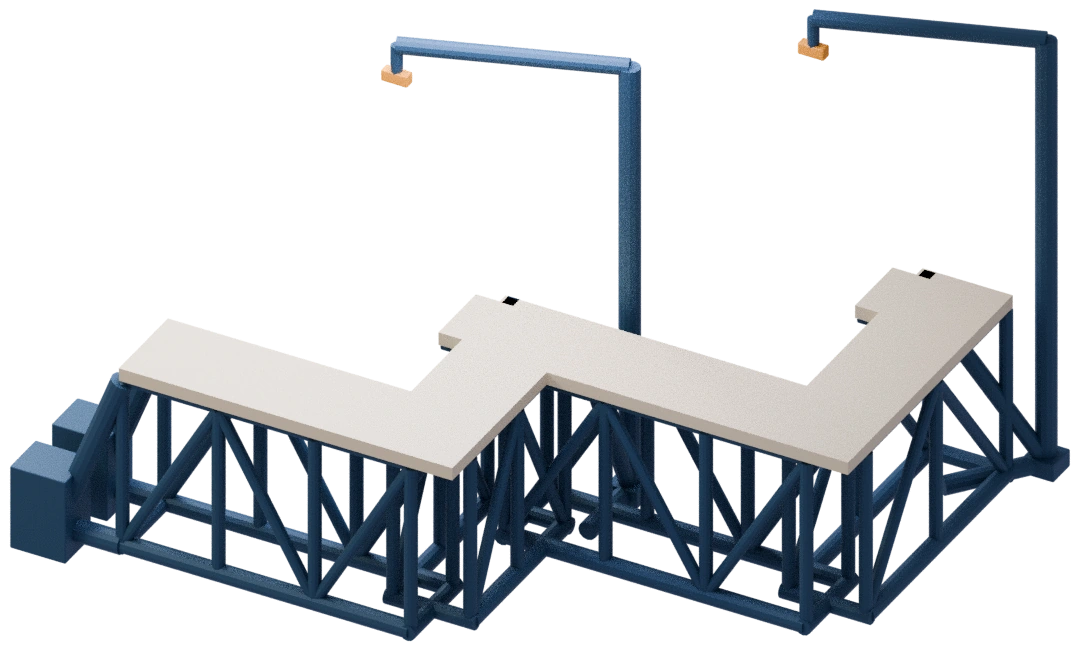
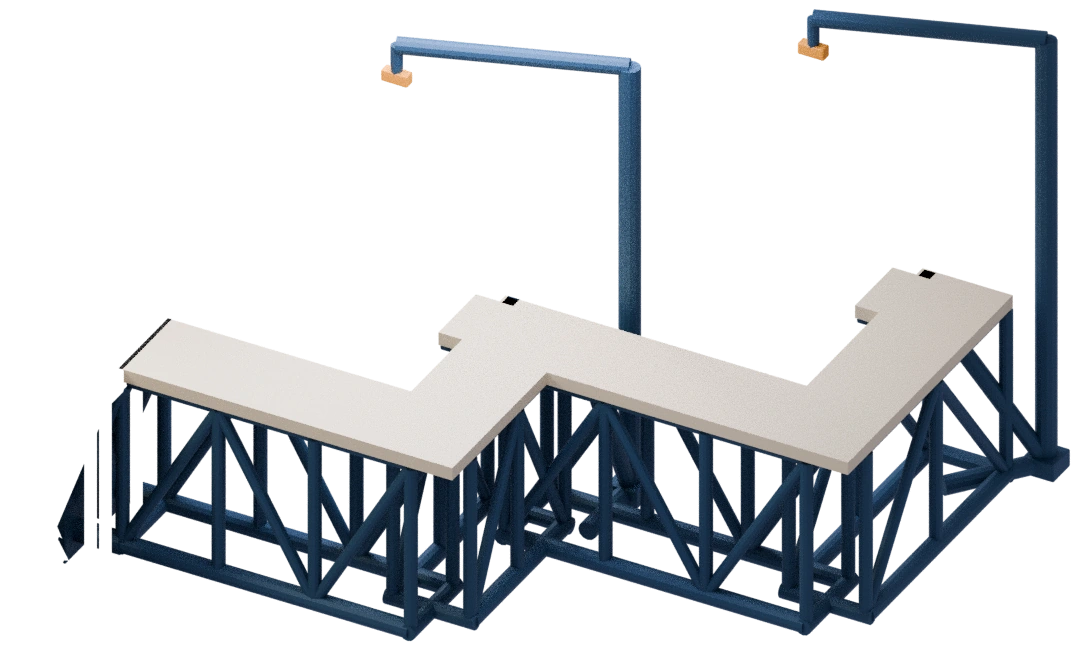
Occlude cableway foundations with the authored island depth

Changed region(s): [[0.0, 0.5538, 0.3361, 0.8923], [0.1222, 0.4923, 0.1528, 0.5538], [0.2444, 0.8923, 0.275, 0.9231]]

diff --git a/tools/diorama/render_serra_reserva_overlays.py b/tools/diorama/render_serra_reserva_overlays.py
@@ -1,0 +1,99 @@
+"""Focused terminal overlay export with depth holdouts from the frozen scene.
+
+blender -b /tmp/link/serra-reserva-link.blend -t 8 \
+  -P tools/diorama/render_serra_reserva_overlays.py -- --output-dir /tmp/link-occlusion
+
+Renders only the two terminal overlays. Island/cabin assets, camera/route metadata
+and all geometry remain untouched. Also imported by the full source builder.
+"""
+from pathlib import Path
+import argparse
+import hashlib
+import json
+import sys
+
+import bpy
+from mathutils import Vector
+
+ROOT = Path(__file__).resolve().parents[2]
+
+
+def set_overlay_visibility(scene, targets):
+    """Keep fixed scene depth as alpha holdouts instead of making X-ray art."""
+    targets = set(targets)
+    count = 0
+    for obj in scene.objects:
+        if obj.type not in {'MESH', 'CURVE', 'FONT'}:
+            continue
+        moving = (obj.name.startswith(('maintenance carrier ', 'passenger carrier ', 'proof ')) or
+                  obj.get('link_group') in {'carrier', 'cables'} or obj.get('gate_moving'))
+        holdout = obj not in targets and not moving
+        obj.hide_render = obj not in targets and not holdout
+        obj.is_holdout = holdout
+        count += int(holdout)
+    bpy.context.view_layer.update()
+    return count
+
+
+def geometry_digest(scene):
+    digest = hashlib.sha256()
+    for obj in sorted(scene.objects, key=lambda o: o.name):
+        if obj.type not in {'MESH', 'CURVE', 'FONT'}:
+            continue
+        digest.update(json.dumps([obj.name, obj.type, [list(row) for row in obj.matrix_world]], separators=(',', ':')).encode())
+        if obj.type == 'MESH':
+            digest.update(json.dumps([[list(v.co) for v in obj.data.vertices], [list(p.vertices) for p in obj.data.polygons]], separators=(',', ':')).encode())
+    return digest.hexdigest()
+
+
+def main():
+    parser = argparse.ArgumentParser()
+    parser.add_argument('--output-dir', type=Path, required=True)
+    parser.add_argument('--metadata', type=Path, default=ROOT/'public/assets/world/map/serra-reserva-link.meta.json')
+    parser.add_argument('--samples', type=int, default=32)
+    args = parser.parse_args(sys.argv[sys.argv.index('--')+1:] if '--' in sys.argv else [])
+    args.output_dir.mkdir(parents=True, exist_ok=True)
+    scene = bpy.context.scene
+    camera = scene.camera
+    meta = json.loads(args.metadata.read_text())
+    before = geometry_digest(scene)
+    original_location, original_scale = camera.location.copy(), camera.data.ortho_scale
+    original_size = scene.render.resolution_x, scene.render.resolution_y
+    saved_visibility = {obj.name: (obj.hide_render, obj.is_holdout) for obj in scene.objects}
+    rendered = []
+    for terminal in ['lower', 'upper']:
+        targets = [obj for obj in scene.objects if obj.get('link_group') == terminal and not obj.get('gate_moving')]
+        layer = next(layer for layer in meta['overlays'] if layer['path'].endswith(terminal+'-terminal.webp'))
+        count = set_overlay_visibility(scene, targets)
+        left, top, width, height = [layer[key] for key in ['left', 'top', 'widthInMap', 'heightInMap']]
+        camera.location = original_location+camera.rotation_euler.to_matrix()@Vector(
+            (((left-2.78)+width/2-.5)*20.6, -((top+.65)+height/2-.5)*12.875, 0))
+        camera.data.ortho_scale = 20.6*width
+        scene.render.resolution_x, scene.render.resolution_y = layer['width'], layer['height']
+        scene.render.resolution_percentage = 100
+        scene.cycles.samples = args.samples
+        scene.render.film_transparent = True
+        target = args.output_dir/(Path(layer['path']).stem+'.png')
+        scene.render.filepath = str(target)
+        bpy.ops.render.render(write_still=True)
+        rendered.append({'terminal': terminal, 'file': target.name, 'holdoutObjects': count,
+                         'width': layer['width'], 'height': layer['height']})
+    camera.location, camera.data.ortho_scale = original_location, original_scale
+    scene.render.resolution_x, scene.render.resolution_y = original_size
+    for obj in scene.objects:
+        obj.hide_render, obj.is_holdout = saved_visibility[obj.name]
+    bpy.context.view_layer.update()
+    after = geometry_digest(scene)
+    assert before == after, 'Overlay export modified scene geometry'
+    record = {'geometryUnchanged': True, 'geometrySha256': before,
+              'metadataSha256': hashlib.sha256(args.metadata.read_bytes()).hexdigest(),
+              'method': 'Cycles object holdouts from all fixed scene geometry preserve real front/back occlusion; moving carriers, cables, actors and retracted gates are excluded.',
+              'rendered': rendered,
+              'exportSource': str(Path(__file__).relative_to(ROOT)),
+              'exportSourceSha256': hashlib.sha256(Path(__file__).read_bytes()).hexdigest()}
+    (args.output_dir/'occlusion-export.json').write_text(json.dumps(record, indent=2)+'\n')
+    print('OCCLUSION_EXPORT='+json.dumps(record), flush=True)
+
+
+if __name__ == '__main__':
+    main()

diff --git a/tools/diorama/render_serra_reserva_link.py b/tools/diorama/render_serra_reserva_link.py
@@ -432,11 +432,12 @@ if not ARGS.build_only:
     render_crop(OUT/'serra-reserva-corridor-proof.png', (2.70, -1.80, 4.18, .35), 1100)
 
 if ARGS.render_overlays:
+    record['exportSources'] = {'tools/diorama/render_serra_reserva_overlays.py': hashlib.sha256((ROOT/'tools/diorama/render_serra_reserva_overlays.py').read_bytes()).hexdigest()}
+    overlay_spec = importlib.util.spec_from_file_location('passenger_overlay_export', ROOT/'tools/diorama/render_serra_reserva_overlays.py')
+    overlay_export = importlib.util.module_from_spec(overlay_spec)
+    overlay_spec.loader.exec_module(overlay_export)
     def overlay(name, objects, when=None):
-        for obj in scene.objects:
-            if obj.type in {'MESH', 'CURVE', 'FONT'}:
-                obj.hide_render = obj not in objects
-        bpy.context.view_layer.update()
+        overlay_export.set_overlay_visibility(scene, objects)
         projected = [project(obj.matrix_world@Vector(p)) for obj in objects for p in obj.bound_box]
         left = math.floor((min(p['x'] for p in projected)-.005)*1920)/1920
         top = math.floor((min(p['y'] for p in projected)-.005)*1200)/1200

diff --git a/tools/diorama/package_serra_reserva_link.py b/tools/diorama/package_serra_reserva_link.py
@@ -18,6 +18,7 @@ meta = json.loads((args.source/'serra-reserva-link.meta.json').read_text())
 audit = json.loads((args.source/'serra-reserva-clearance.json').read_text())
 assert audit['passed'], 'The exact combined link audit must pass before packaging'
 assert all(hashlib.sha256((ROOT/name).read_bytes()).hexdigest() == sha for name, sha in meta['sources'].items()), 'Source drift after frozen render'
+assert all(hashlib.sha256((ROOT/name).read_bytes()).hexdigest() == sha for name, sha in meta.get('exportSources', {}).items()), 'Overlay exporter drift after render'
 assert len(meta['overlays']) == 6, 'Two static endpoints plus four raised closed barriers'
 assets = ROOT/'public/assets/world/map'
 docs = ROOT/'docs/world/diorama'

diff --git a/docs/world/reserva-qa.md b/docs/world/reserva-qa.md
@@ -29,10 +29,32 @@ changed.
 - The aggregate test attempt took 11.88 seconds; validators, both typechecks and
   build took 11.71 seconds in parallel. Vite itself took 1.89 seconds
 - Build: JS 471.77 kB (147.61 kB gzip), CSS 19.35 kB (4.70 kB gzip)
-- Added assets total 448,192 bytes, including 4,387 bytes of authoring-only cabin
-  metadata. New runtime fetches total 443,805 bytes. Decoded image storage is
+- Added assets total 446,306 bytes, including 4,387 bytes of authoring-only cabin
+  metadata. New runtime fetches total 441,919 bytes. Decoded image storage is
   approximately 14.50 MB; this is a dimension estimate, not measured browser RAM
 
-Actual browser traversal and public deployment verification are pending on the
-published preview. Automated layout coverage does not establish physical touch
-behavior, browser FPS or a browser-level reduced-motion setting.
+## Live preview checks
+
+Preview `43c5d16`, bundle `index-Bcp1on_A.js`, was tested in the cloud browser at
+1180×757 and 590×378 CSS pixels. The old 18-stage fixture kept Reserva blocked,
+including Enter. The approved artificial 23-stage/57-seal fixture was imported
+only into the established test origin; production progress was not imported.
+
+Verified actual passenger departure, natural 5-1 arrival, explicit gameplay entry
+and return to 5-1; walking to 5-3, shipping shortcut to 5-5, return to the real
+4-5 terminal and immediate maintenance travel to 4-3. The complete 4-3→5-1 route
+also arrived correctly. Reload during a passenger ride restored the last saved
+5-1 arrival. Two rapid direction inputs and skip arrived at the selected 5-2.
+The region menu retained 23/30 and 57/72, with region 6 still locked.
+
+Visual QA identified buried foundation sockets incorrectly painted over the
+island by isolated terminal exports. Both terminal overlays were re-exported
+with the unchanged island geometry as depth holdouts. Runtime-style composites
+verify the correction; geometry, paths, metadata, cabins and gate images are
+unchanged. This export-only revision needs a final preview image check before
+main promotion. No unchanged aggregate test rerun is required for those pixels.
+
+Recent browser diagnostic entries were extension metadata errors, so this is
+not an exhaustive app-console claim. Automated layout coverage does not
+establish physical touch behavior, browser FPS or a browser-level reduced-motion
+setting. Public deployment verification remains pending.

diff --git a/docs/world/diorama/serra-reserva-link.md b/docs/world/diorama/serra-reserva-link.md
@@ -30,6 +30,11 @@ open mechanisms are hidden inside the shared terminal decks. The two long cables
 with the exact projected offset to the cabin grip `(0, 0.13, 2.60)`; there is no
 large transparent bitmap spanning the gap between islands.
 
+Terminal exports retain the fixed island/structure geometry as Cycles alpha
+holdouts. Buried foundation sockets and cliff anchors therefore stay behind
+the ice/rock when the runtime paints each overlay over the island bitmap.
+Moving carriers, actors, cables and retracted gates are not baked as occluders.
+
 ## Rebuild and check
 
 Requires Blender 4.x, Node, Python and Pillow. The passenger cabin's approved
@@ -53,7 +58,18 @@ The frozen package passes 576 passenger poses, 114 maintenance-preservation
 poses, 1,182 grounded foot probes, 716 new-route actor poses and 348 old-route
 actor poses. There are zero mesh collisions, support failures, head/body
 occlusions or independent-phase maintenance/passenger frame overlaps. The six
-WebP overlays total 152,238 bytes.
+WebP overlays total 150,352 bytes.
+
+A focused occlusion correction after preview `43c5d16` removed 12,005 opaque
+buried pixels from the Serra terminal and 11,222 from the Reserva terminal,
+without adding opaque pixels outside the old silhouettes. Both native image
+sizes and the runtime metadata remain unchanged. Before/after scene-geometry
+hashes and an exact comparison of the geometry-bearing builder source confirm
+that this correction changes export visibility only. The approved manifest
+retains the original geometry-audit source snapshot and the new export record.
+Compositions made from the actual base WebP, overlay rectangles, closed gates,
+wire paths and cabin layers verified the corrected layering at both joins.
+All 13 passenger contract/integration asset tests pass after the correction.
 
 The checked-in combined checker covers the actual passenger mesh on both ride
 curves, grounded center/foot-width samples of each approach and boarding route,
